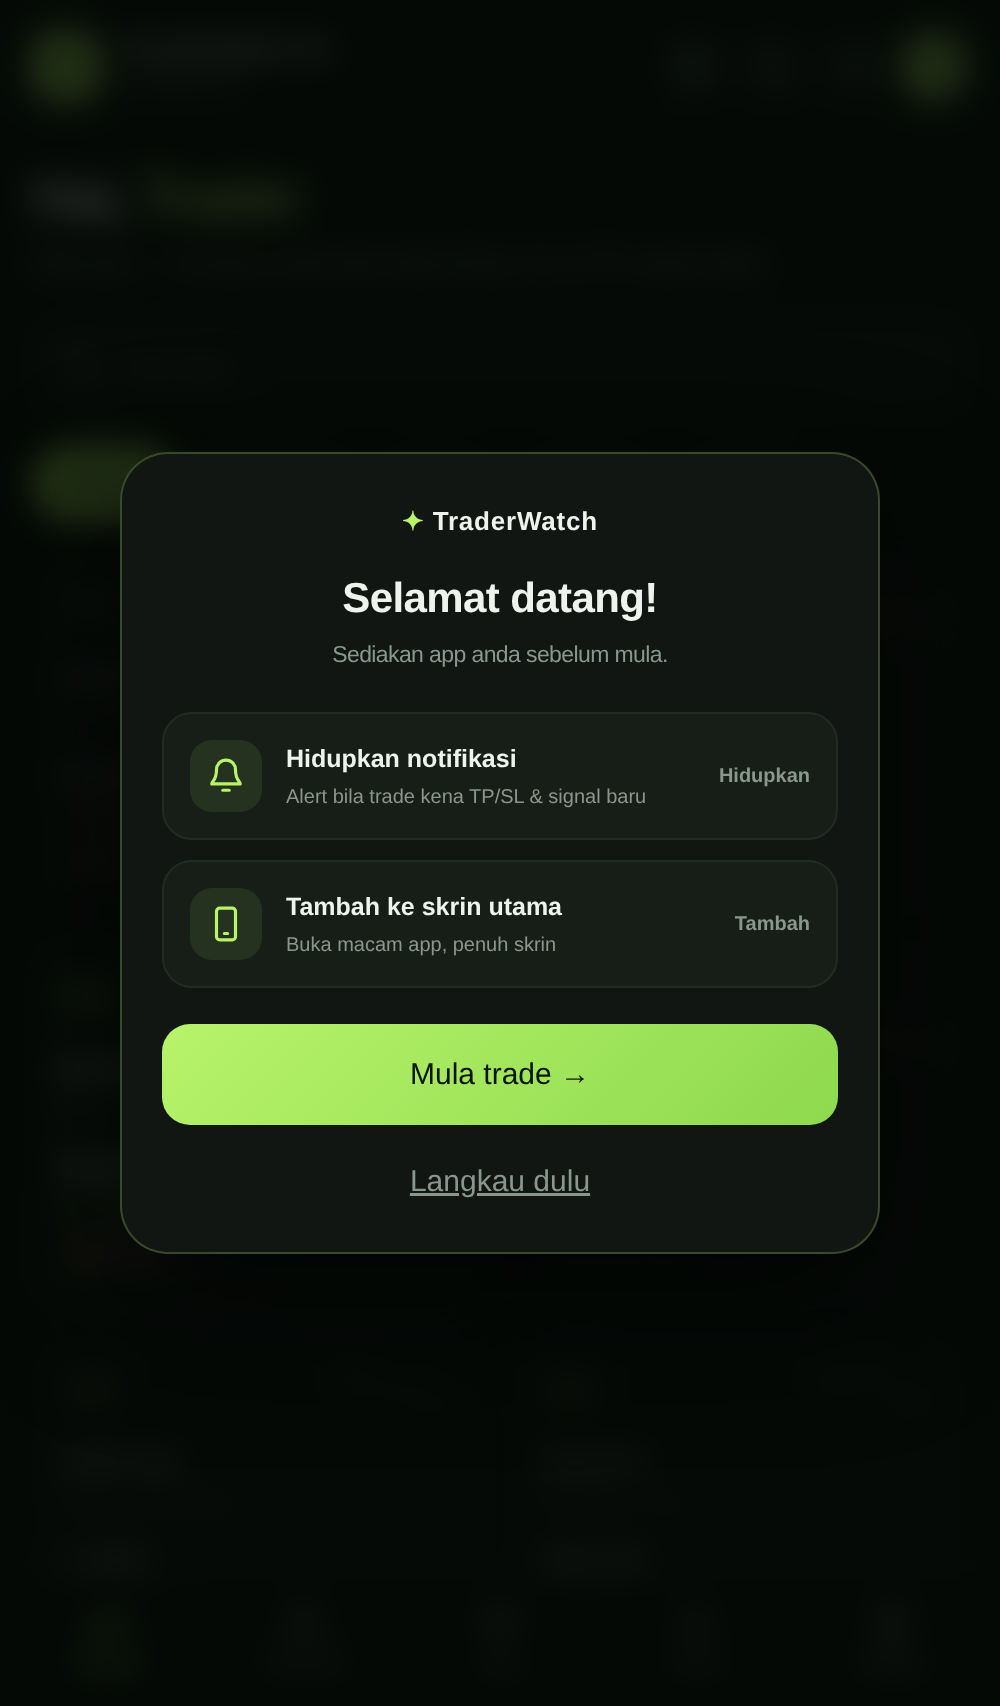
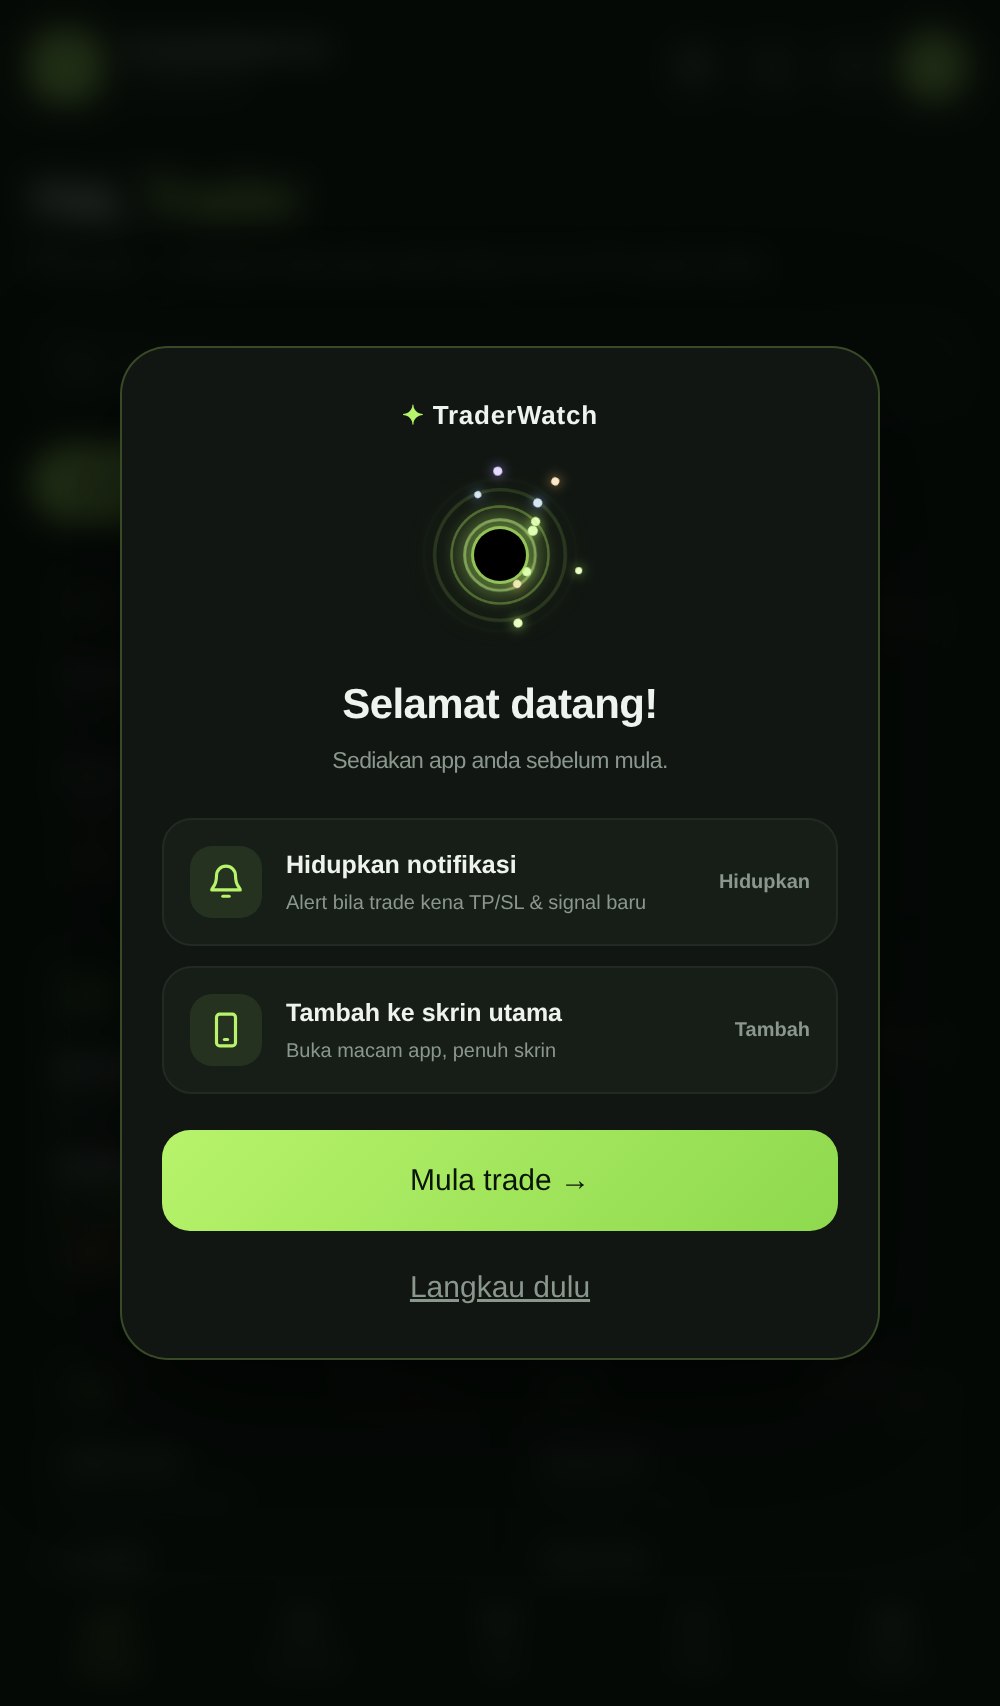
feat: blackhole animation pada welcome/onboarding layer — guna semula orb (12 dot rawak dihisap, 3 pulse-wave, aura+photon+core), saiz 96px; SW v30

diff --git a/member/index.html b/member/index.html
@@ -175,6 +175,15 @@ html[data-theme="light"] .msg.me .body{background:#eaf5db;border-color:#b9d999}
  border-radius:24px;padding:24px 20px 18px;box-shadow:0 24px 70px #0009;text-align:center}
 .wlogo{font-size:13px;font-weight:900;color:var(--lime);letter-spacing:.4px;margin-bottom:16px}
 .wlogo span{color:var(--text)}
+.wholerow{display:grid;place-items:center;margin:-4px 0 14px}
+.hole.wh{width:96px;height:96px}
+.hole.wh .aura{width:60px;height:60px}
+.hole.wh .photon{width:38px;height:38px}
+.hole.wh .core{width:26px;height:26px}
+.hole.wh .wv{width:38px;height:38px}
+.hole.wh .scanarc{width:74px;height:74px}
+.hole.wh .dot{--d:44px}
+
 .wttl{font-size:21px;font-weight:900;line-height:1.2}
 .wsub{font-size:11.5px;color:var(--muted);margin:7px 0 20px;line-height:1.5}
 .wopt{display:flex;align-items:center;gap:12px;width:100%;text-align:left;cursor:pointer;
@@ -773,6 +782,15 @@ html[data-theme="light"] .lotbadge{color:#4c7a17}
     <div id="welcome" class="welcome hidden" role="dialog" aria-modal="true" aria-label="Welcome">
       <div class="wcard">
         <div class="wlogo">✦ <span>TraderWatch</span></div>
+        <div class="wholerow">
+          <div class="hole wh" id="wHole" aria-hidden="true">
+            <div class="aura"></div>
+            <div class="wv"></div><div class="wv b"></div><div class="wv c"></div>
+            <div class="scanarc"></div>
+            <div class="photon"></div>
+            <div class="core"></div>
+          </div>
+        </div>
         <div class="wttl" id="wTitle">Selamat datang!</div>
         <div class="wsub" id="wSub">Sediakan app anda sebelum mula.</div>
 
@@ -2584,9 +2602,27 @@ function drawWelcome(){
 }
 function showWelcome(){
  if($('welcome').classList.contains('hidden')===false)return;
+ buildWelcomeHole();
  $('welcome').classList.remove('hidden');
  drawWelcome();
  $('wGo').focus();
+}
+function buildWelcomeHole(){
+ var hole=$('wHole');if(!hole||hole.dataset.built)return;
+ var cols=['','b','','o','','v','','b','','o','',''];
+ for(var i=0;i<12;i++){
+  var ray=document.createElement('div');ray.className='ray';
+  ray.style.transform='rotate('+(Math.random()*360).toFixed(1)+'deg)';
+  var d=document.createElement('div');d.className='dot '+(cols[i%cols.length]||'');
+  var dur=(2.4+Math.random()*2.6);
+  d.style.animationDuration=dur.toFixed(2)+'s';
+  d.style.animationDelay=(-Math.random()*dur).toFixed(2)+'s';
+  d.style.setProperty('--d',(40+Math.random()*10).toFixed(0)+'px');
+  var sz=(2.8+Math.random()*2).toFixed(1);
+  d.style.width=sz+'px';d.style.height=sz+'px';d.style.top=(-parseFloat(sz)/2).toFixed(1)+'px';
+  ray.appendChild(d);hole.appendChild(ray);
+ }
+ hole.dataset.built='1';
 }
 function maybeWelcome(){
  try{if(localStorage.getItem(WKEY))return}catch(e){return}

diff --git a/member/sw.js b/member/sw.js
@@ -5,7 +5,7 @@
  *  - /api/* dan /auth/*: NETWORK SAHAJA — jangan cache data pasaran/user
  *  - Data user (Supabase REST, chat, profil): tidak dicache sama sekali
  */
-const VERSION = 'tw-member-full-v29';
+const VERSION = 'tw-member-full-v30';
 const SHELL_CACHE = VERSION + '-shell';
 
 const SHELL_ASSETS = [
